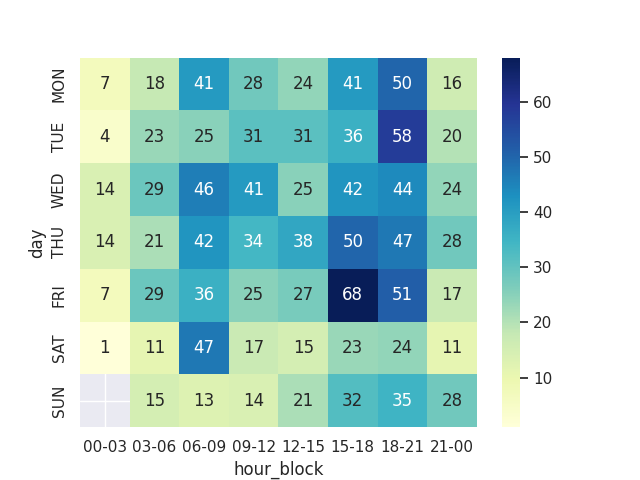
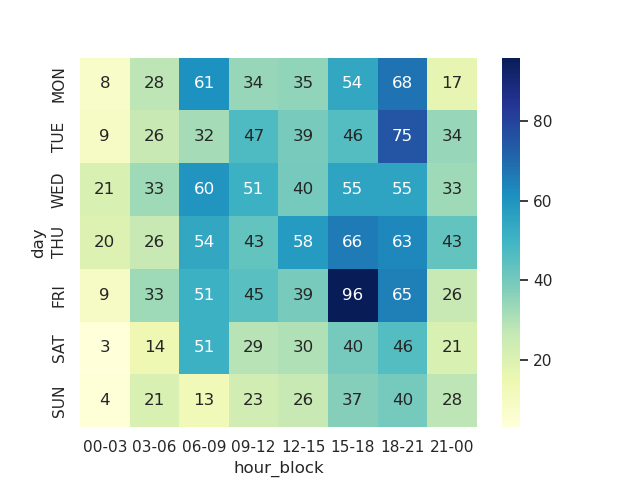
tested the scripts and updated typos and outputs in README

diff --git a/ETL/etl.py b/ETL/etl.py
@@ -31,8 +31,8 @@ def filter_json_records(json_commits):
     return fil_records
 
 
-def loadDB(records):
-    load_dotenv(dotenv_path="../.env")
+def loadDB(records, envfile):
+    load_dotenv(dotenv_path=envfile)
     # set up the db connection
     connection = psycopg2.connect(
         host="localhost",
@@ -57,11 +57,13 @@ def loadDB(records):
 if __name__ == "__main__":
     logging.basicConfig(level=logging.INFO, format="%(name)s-%(levelname)s-%(asctime)s-%(message)s")
     logger = logging.getLogger("github_etl")
+    envfile = os.path.join(os.path.dirname(os.path.dirname(__file__)),".env")
     argp = argparse.ArgumentParser()
     argp.add_argument('-u', dest="github_url", required=True, action='store', type=str, help="github repo url")
     argp.add_argument('-d', dest='interval_days', default=180, action='store', type=int, help="time interval in days (def: 180)")
+    argp.add_argument('-e', dest='env_file', default=envfile, help="path to the .env file (def:../.env)")
     args = argp.parse_args()
-
+    logger.info(f"env file used: {args.env_file}")
     # Create the api class object
     #example: git_extractor = GithubCommitExtractor("https://github.com/apache/airflow")
     git_extractor = GithubCommitExtractor(args.github_url)
@@ -78,5 +80,5 @@ if __name__ == "__main__":
     filtered_records = filter_json_records(commits)
     logger.info(f"filtered the required records from the api response")
     # Load them into the backend DB
-    loadDB(filtered_records)
+    loadDB(filtered_records, args.env_file)
     logger.info(f"finished loading the records to DB ({os.getenv('DB_NAME')})")

diff --git a/queries/analysis.py b/queries/analysis.py
@@ -46,14 +46,19 @@ def calculate_heatmap(df):
 if __name__=="__main__":
     # create the sql object for github db 
     dbobj  = CommitsDB()
+    # test the connectoon
+    dbobj.test_conn()
     
     # get all information from commits table 
     query = "SELECT * FROM commits_extended;"
     commits_df = dbobj.read_query(query)
 
+
     # question 1: determine the top 5 committers ranked by count of commits and their number of commits.
     top_commiters = find_top_commiters(commits_df)
     print(f"Top 5 Commiters \n {top_commiters} \n")
+    
+    
     # question 2: determine the committer with the longest commit streak.
     long_streak_commiter = find_longest_streak_commiter(commits_df)
     print(f"Commiter with longest streak: \n {long_streak_commiter}\n")

diff --git a/queries/sql.py b/queries/sql.py
@@ -46,7 +46,7 @@ class CommitsDB():
             
         except Exception as error:
             logger.error(f"Connection failed {error}")
-            return False
+            sys.ext(1)
         else:
             logger.info(f"Conncection successful to {self.dbname}.{self.table}")
             return df

diff --git a/README.md b/README.md
@@ -14,7 +14,7 @@ With the data ingested, address the follow queries:
 
 ## Solution
 
-Here we are using Python to authenticate and extract the commits from Github REST API. Transform or filter the required fields and load them to the local postgres database which is running inside a docker containter.
+Here I am using Python for ETL process. This will authenticate and extract the commits from Github REST API, Transform or filter the required fields and load them to the local postgres database which is running inside a docker containter.
 
 
 ## Prerequisites
@@ -34,11 +34,9 @@ mamba env create -f env.yml -n gitapienv
 mamba activate gitapienv
 ```
 
-### Build and Run Postgres Database in Docker
+### Build Postgres docker image
 
-#### Building the postgres docker image
-
-Postgres docker image is built using [commitsdb.Dockerfile](./DB/commitsdb.Dockerfile) which initialise the table and view creation that are stored in [setup.sql](./DB/setup.sql). The sql creates two views within the database called `commits_view` and `commits_extended`. This `commits_extended` view contains the `Day`, `Hour` and `hour_block` calculated automatically when the data is populated into the main `commits` table.
+Postgres docker image is built using [commitsdb.Dockerfile](./DB/commitsdb.Dockerfile) which initialise the table and view creation that are stored in [setup.sql](./DB/setup.sql). The sql creates two views within the database called `commits_view` and `commits_extended`. This `commits_extended` view contains the `Day`, `Hour` and `hour_block` columns which are calculated automatically when the data is populated into the main `commits` table and the view is invoked.
 
  _make sure to set/export the environmental variables declared in [.env](./.env) file_
 
@@ -50,7 +48,7 @@ docker build -t githubdb -f commitsdb.Dockerfile .
 
 ### Create Github personal token 
 
-The GitHub REST API uses rate limiting to control API traffic. This is not mandatory but the requests with authenticated connection have higher rate limits compared to the general requests. check this [token-github](https://docs.github.com/en/authentication/keeping-your-account-and-data-secure/managing-your-personal-access-tokens#creating-a-fine-grained-personal-access-token) link for more information. once the token is created, save it as a environmental variable name `GITHUB_TOKEN`
+The GitHub REST API uses rate limiting to control API traffic. This is not mandatory but the requests with authenticated connection have higher rate limits compared to the general requests. Check this [token-github](https://docs.github.com/en/authentication/keeping-your-account-and-data-secure/managing-your-personal-access-tokens#creating-a-fine-grained-personal-access-token) link for more information. Once the token is created, save it as a environmental variable name `GITHUB_TOKEN`
 
 ```
 export GITHUB_TOKEN='adceafaxxxxxx......'
@@ -81,28 +79,105 @@ Queries:
 
 ```
 # run the built docker image in detached mode
-docker run -d -n gitpostgres -p 5432:5432 githubdb 
+docker run -d --name gitpostgres --env-file ../.env -p 5432:5432 githubdb 
 
 ```
 
+Check whether the container is running. If it is running, we can ssh into the running container to see the tables and records
+
+```
+docker ps 
+
+```
+should list the running container as below
+```
+CONTAINER ID   IMAGE      COMMAND                  CREATED         STATUS         PORTS                    NAMES
+ad814f168826   githubdb   "docker-entrypoint.s…"   4 seconds ago   Up 4 seconds   0.0.0.0:5432->5432/tcp   gitpostgres
+```
+
+the tables and records can be listed as well. we should not see any records as we just created the table alone.
+```
+docker exec -it gitpostgres bash 
+
+#once login inside, connect to psql 
+psql -d github -U vamshi
+
+#show the table records
+select * from commits;
+
+```
+desired output:
+```
+root@ad814f168826:/# psql -d github -U vamshi
+psql (15.4 (Debian 15.4-1.pgdg120+1))
+Type "help" for help.
+
+github=# \dt
+         List of relations
+ Schema |  Name   | Type  | Owner
+--------+---------+-------+--------
+ public | commits | table | vamshi
+(1 row)
+
+github=# select * from commits;
+ commit_id | committer_name | committer_email | committer_date | created_at 
+-----------+----------------+-----------------+----------------+------------
+(0 rows)
+
+github=#
+```
 ### 2. Extract the Commits from Github API using python
 
 ```
 mamba activate gitapienv
-python ETL/etl.py -u 'https://github.com/apache/airflow' -d 180 
+python ETL/etl.py -u 'https://github.com/apache/airflow' -d 180 2>&1 |tee ETL/log_etl.txt
 ```
 
 `-d` can be changed according to the desired time window. This will extract the commits from Github repo, select the required feilds and load them into the githubdb database. 
 
+output log file: [log_etl.txt](./ETL/log_etl.txt)
+
 ### 3. Analysis
 
-_make sure you are in the same conda environment_
+I am using Python for the analysis. This will read data stored in the postgres database via `sqlalchemy` and `psycopg2`. I used pandas to analyse the data and return the required answers. 
 
 main script: [analysis.py](./queries/analysis.py)
 ```
-python queries/analysis.py
+cd queries
+python analysis.py 2>&1 |tee log_analysis.txt
 
 ```
+
+output:
+```
+postgres_sql-INFO-2023-08-28 17:14:34,552-Conncection successful to github.commits
+Top 5 Commiters 
+     committer_name  num_counts
+0     Jarek Potiuk         405
+1    Hussein Awala         142
+2          eladkal          93
+3   Tzu-ping Chung          69
+4  Miroslav Šedivý          69
+
+Commiter with longest streak:
+     committer_name   streak_duration
+126   Jarek Potiuk 178 days 07:06:48
+
+count heatmap by Day and Hour Block:
+ hour_block  00-03  03-06  06-09  09-12  12-15  15-18  18-21  21-00
+day
+MON             8     28     61     34     35     54     68     17
+TUE             9     26     32     47     39     46     75     34
+WED            21     33     60     51     40     55     55     33
+THU            20     26     54     43     58     66     63     43
+FRI             9     33     51     45     39     96     65     26
+SAT             3     14     51     29     30     40     46     21
+SUN             4     21     13     23     26     37     40     28
+
+heatmap plot is saved to heatmap_plot.png
+```
+
+output file: [log_analysis.txt](./queries/log_analysis.txt)
 This will connect to the database, extract the records and prints the output to the console for 
 - top 5 committers 
 - commiter with the longest commit streak
